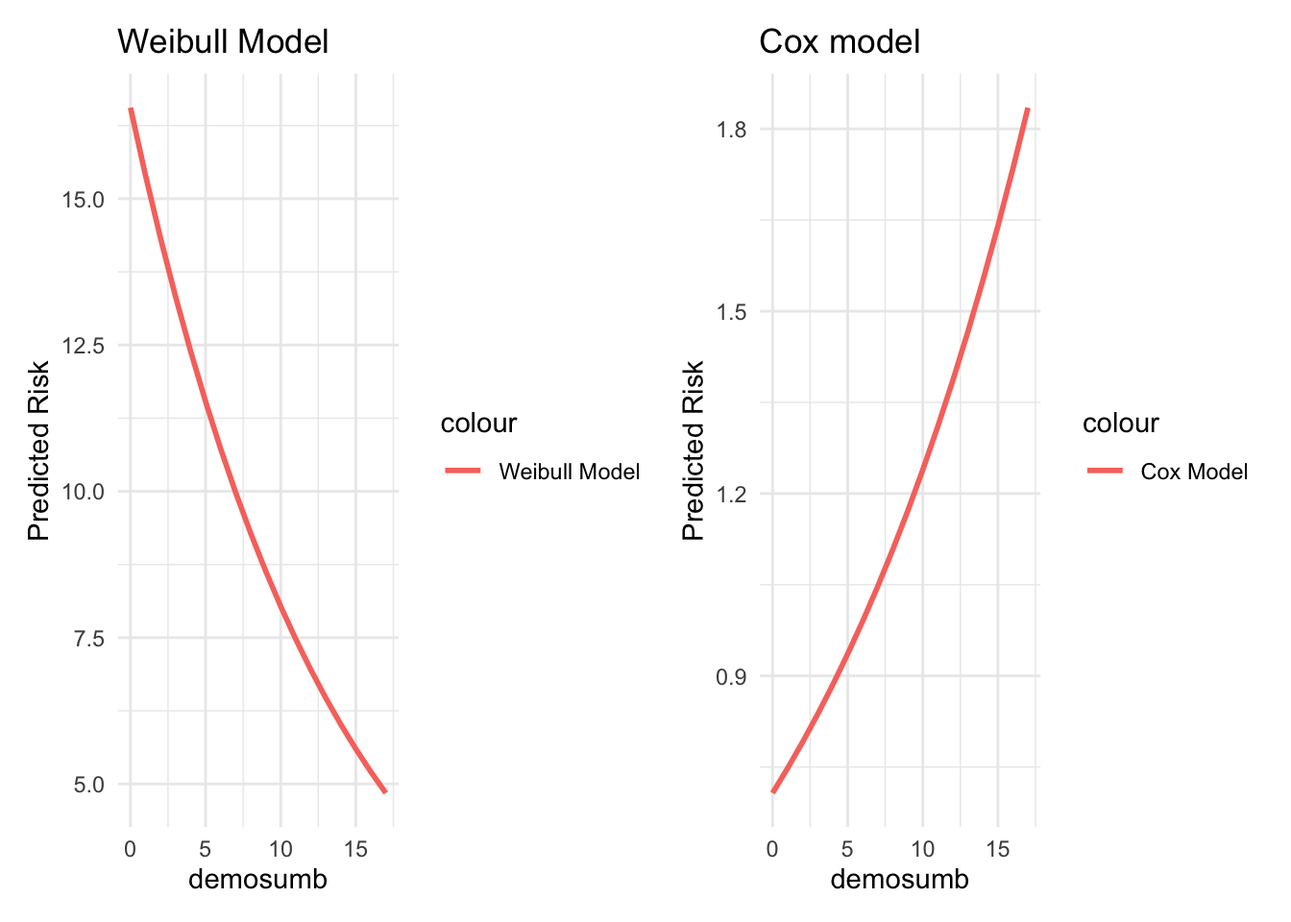
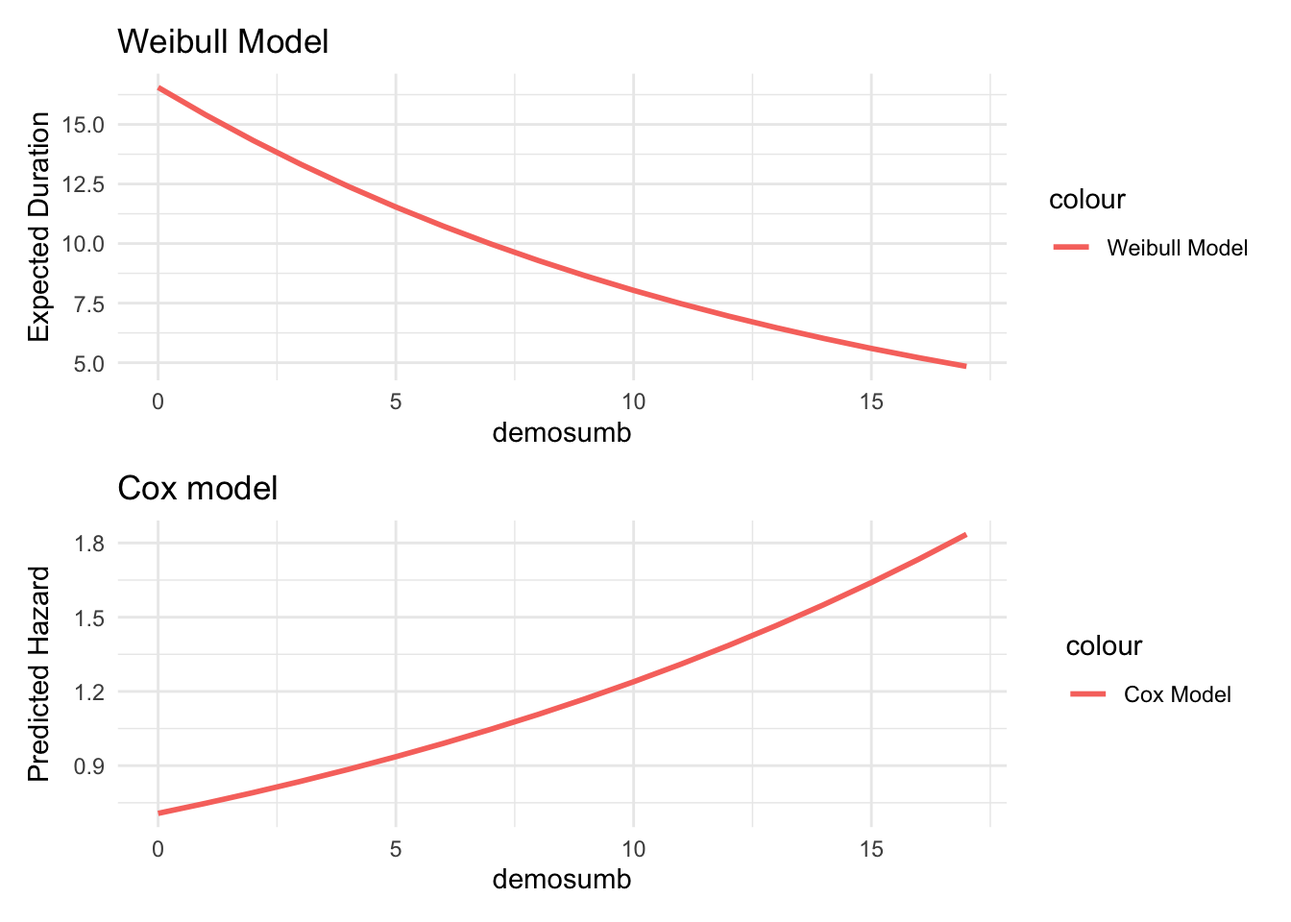
updates

diff --git a/docs/haz-cont24.html b/docs/haz-cont24.html
@@ -7,7 +7,7 @@
 <meta name="viewport" content="width=device-width, initial-scale=1.0, user-scalable=yes">
 
 <meta name="author" content="Dave Clark">
-<meta name="dcterms.date" content="2024-11-12">
+<meta name="dcterms.date" content="2024-11-21">
 
 <title>Continuous Time Hazards – MLE - Fall 2024</title>
 <style>
@@ -246,7 +246,7 @@ window.Quarto = {
       <div>
       <div class="quarto-title-meta-heading">Published</div>
       <div class="quarto-title-meta-contents">
-        <p class="date">November 12, 2024</p>
+        <p class="date">November 21, 2024</p>
       </div>
     </div>
     
@@ -826,28 +826,27 @@ h(t)=h_{0}(t) \nonumber
 <span id="cb1-2"><a href="#cb1-2" aria-hidden="true" tabindex="-1"></a></span>
 <span id="cb1-3"><a href="#cb1-3" aria-hidden="true" tabindex="-1"></a></span>
 <span id="cb1-4"><a href="#cb1-4" aria-hidden="true" tabindex="-1"></a></span>
-<span id="cb1-5"><a href="#cb1-5" aria-hidden="true" tabindex="-1"></a><span class="co"># First, create the Cox model</span></span>
-<span id="cb1-6"><a href="#cb1-6" aria-hidden="true" tabindex="-1"></a><span class="co"># Assuming your data is in a dataframe called 'df'</span></span>
-<span id="cb1-7"><a href="#cb1-7" aria-hidden="true" tabindex="-1"></a>cox_model <span class="ot">&lt;-</span> <span class="fu">coxph</span>(<span class="fu">Surv</span>(length, censor) <span class="sc">~</span> oadm <span class="sc">+</span> demosumb <span class="sc">+</span> sumpopbg <span class="sc">+</span> rterrain, </span>
-<span id="cb1-8"><a href="#cb1-8" aria-hidden="true" tabindex="-1"></a>                   <span class="at">data =</span> war)</span>
-<span id="cb1-9"><a href="#cb1-9" aria-hidden="true" tabindex="-1"></a></span>
-<span id="cb1-10"><a href="#cb1-10" aria-hidden="true" tabindex="-1"></a><span class="co"># Create Weibull model</span></span>
-<span id="cb1-11"><a href="#cb1-11" aria-hidden="true" tabindex="-1"></a>weib_model <span class="ot">&lt;-</span> <span class="fu">survreg</span>(<span class="fu">Surv</span>(length, censor) <span class="sc">~</span> oadm <span class="sc">+</span> demosumb <span class="sc">+</span> sumpopbg <span class="sc">+</span> rterrain, </span>
-<span id="cb1-12"><a href="#cb1-12" aria-hidden="true" tabindex="-1"></a>                      <span class="at">data =</span> war, </span>
-<span id="cb1-13"><a href="#cb1-13" aria-hidden="true" tabindex="-1"></a>                      <span class="at">dist =</span> <span class="st">"weibull"</span>)</span>
-<span id="cb1-14"><a href="#cb1-14" aria-hidden="true" tabindex="-1"></a></span>
-<span id="cb1-15"><a href="#cb1-15" aria-hidden="true" tabindex="-1"></a><span class="fu">modelsummary</span>(<span class="fu">list</span>(cox_model, weib_model))</span></code><button title="Copy to Clipboard" class="code-copy-button"><i class="bi"></i></button></pre></div>
+<span id="cb1-5"><a href="#cb1-5" aria-hidden="true" tabindex="-1"></a><span class="co"># cox</span></span>
+<span id="cb1-6"><a href="#cb1-6" aria-hidden="true" tabindex="-1"></a>cox_model <span class="ot">&lt;-</span> <span class="fu">coxph</span>(<span class="fu">Surv</span>(length, censor) <span class="sc">~</span> oadm <span class="sc">+</span> demosumb <span class="sc">+</span> sumpopbg <span class="sc">+</span> rterrain, </span>
+<span id="cb1-7"><a href="#cb1-7" aria-hidden="true" tabindex="-1"></a>                   <span class="at">data =</span> war)</span>
+<span id="cb1-8"><a href="#cb1-8" aria-hidden="true" tabindex="-1"></a></span>
+<span id="cb1-9"><a href="#cb1-9" aria-hidden="true" tabindex="-1"></a><span class="co"># Weibull </span></span>
+<span id="cb1-10"><a href="#cb1-10" aria-hidden="true" tabindex="-1"></a>weib_model <span class="ot">&lt;-</span> <span class="fu">survreg</span>(<span class="fu">Surv</span>(length, censor) <span class="sc">~</span> oadm <span class="sc">+</span> demosumb <span class="sc">+</span> sumpopbg <span class="sc">+</span> rterrain, </span>
+<span id="cb1-11"><a href="#cb1-11" aria-hidden="true" tabindex="-1"></a>                      <span class="at">data =</span> war, </span>
+<span id="cb1-12"><a href="#cb1-12" aria-hidden="true" tabindex="-1"></a>                      <span class="at">dist =</span> <span class="st">"weibull"</span>)</span>
+<span id="cb1-13"><a href="#cb1-13" aria-hidden="true" tabindex="-1"></a></span>
+<span id="cb1-14"><a href="#cb1-14" aria-hidden="true" tabindex="-1"></a><span class="fu">modelsummary</span>(<span class="fu">list</span>(cox_model, weib_model))</span></code><button title="Copy to Clipboard" class="code-copy-button"><i class="bi"></i></button></pre></div>
 </details>
 <div class="cell-output-display">
 <!-- preamble start -->
 
     <script>
-      function styleCell_ffp5aa9rg0ai8jou2afq(i, j, css_id) {
-        var table = document.getElementById("tinytable_ffp5aa9rg0ai8jou2afq");
+      function styleCell_z764csb5pozivnd9mynx(i, j, css_id) {
+        var table = document.getElementById("tinytable_z764csb5pozivnd9mynx");
         table.rows[i].cells[j].classList.add(css_id);
       }
       function insertSpanRow(i, colspan, content) {
-        var table = document.getElementById('tinytable_ffp5aa9rg0ai8jou2afq');
+        var table = document.getElementById('tinytable_z764csb5pozivnd9mynx');
         var newRow = table.insertRow(i);
         var newCell = newRow.insertCell(0);
         newCell.setAttribute("colspan", colspan);
@@ -855,8 +854,8 @@ h(t)=h_{0}(t) \nonumber
         // this may be unsafe, but innerText does not interpret <br>
         newCell.innerHTML = content;
       }
-      function spanCell_ffp5aa9rg0ai8jou2afq(i, j, rowspan, colspan) {
-        var table = document.getElementById("tinytable_ffp5aa9rg0ai8jou2afq");
+      function spanCell_z764csb5pozivnd9mynx(i, j, rowspan, colspan) {
+        var table = document.getElementById("tinytable_z764csb5pozivnd9mynx");
         const targetRow = table.rows[i];
         const targetCell = targetRow.cells[j];
         for (let r = 0; r < rowspan; r++) {
@@ -882,69 +881,69 @@ h(t)=h_{0}(t) \nonumber
         targetCell.rowSpan = rowspan;
         targetCell.colSpan = colspan;
       }
-window.addEventListener('load', function () { styleCell_ffp5aa9rg0ai8jou2afq(0, 0, 'tinytable_css_idbkoii8o6b7rclemcig05') })
-window.addEventListener('load', function () { styleCell_ffp5aa9rg0ai8jou2afq(0, 1, 'tinytable_css_idvfe26mc2kdos6bg1mmu6') })
-window.addEventListener('load', function () { styleCell_ffp5aa9rg0ai8jou2afq(0, 2, 'tinytable_css_idvfe26mc2kdos6bg1mmu6') })
-window.addEventListener('load', function () { styleCell_ffp5aa9rg0ai8jou2afq(1, 0, 'tinytable_css_id2r1zwlnc5sl7w2io69tx') })
-window.addEventListener('load', function () { styleCell_ffp5aa9rg0ai8jou2afq(1, 1, 'tinytable_css_idf1ot9fx3hx94yza4pws0') })
-window.addEventListener('load', function () { styleCell_ffp5aa9rg0ai8jou2afq(1, 2, 'tinytable_css_idf1ot9fx3hx94yza4pws0') })
-window.addEventListener('load', function () { styleCell_ffp5aa9rg0ai8jou2afq(2, 0, 'tinytable_css_id2r1zwlnc5sl7w2io69tx') })
-window.addEventListener('load', function () { styleCell_ffp5aa9rg0ai8jou2afq(2, 1, 'tinytable_css_idf1ot9fx3hx94yza4pws0') })
-window.addEventListener('load', function () { styleCell_ffp5aa9rg0ai8jou2afq(2, 2, 'tinytable_css_idf1ot9fx3hx94yza4pws0') })
-window.addEventListener('load', function () { styleCell_ffp5aa9rg0ai8jou2afq(3, 0, 'tinytable_css_id2r1zwlnc5sl7w2io69tx') })
-window.addEventListener('load', function () { styleCell_ffp5aa9rg0ai8jou2afq(3, 1, 'tinytable_css_idf1ot9fx3hx94yza4pws0') })
-window.addEventListener('load', function () { styleCell_ffp5aa9rg0ai8jou2afq(3, 2, 'tinytable_css_idf1ot9fx3hx94yza4pws0') })
-window.addEventListener('load', function () { styleCell_ffp5aa9rg0ai8jou2afq(4, 0, 'tinytable_css_id2r1zwlnc5sl7w2io69tx') })
-window.addEventListener('load', function () { styleCell_ffp5aa9rg0ai8jou2afq(4, 1, 'tinytable_css_idf1ot9fx3hx94yza4pws0') })
-window.addEventListener('load', function () { styleCell_ffp5aa9rg0ai8jou2afq(4, 2, 'tinytable_css_idf1ot9fx3hx94yza4pws0') })
-window.addEventListener('load', function () { styleCell_ffp5aa9rg0ai8jou2afq(5, 0, 'tinytable_css_id2r1zwlnc5sl7w2io69tx') })
-window.addEventListener('load', function () { styleCell_ffp5aa9rg0ai8jou2afq(5, 1, 'tinytable_css_idf1ot9fx3hx94yza4pws0') })
-window.addEventListener('load', function () { styleCell_ffp5aa9rg0ai8jou2afq(5, 2, 'tinytable_css_idf1ot9fx3hx94yza4pws0') })
-window.addEventListener('load', function () { styleCell_ffp5aa9rg0ai8jou2afq(6, 0, 'tinytable_css_id2r1zwlnc5sl7w2io69tx') })
-window.addEventListener('load', function () { styleCell_ffp5aa9rg0ai8jou2afq(6, 1, 'tinytable_css_idf1ot9fx3hx94yza4pws0') })
-window.addEventListener('load', function () { styleCell_ffp5aa9rg0ai8jou2afq(6, 2, 'tinytable_css_idf1ot9fx3hx94yza4pws0') })
-window.addEventListener('load', function () { styleCell_ffp5aa9rg0ai8jou2afq(7, 0, 'tinytable_css_id2r1zwlnc5sl7w2io69tx') })
-window.addEventListener('load', function () { styleCell_ffp5aa9rg0ai8jou2afq(7, 1, 'tinytable_css_idf1ot9fx3hx94yza4pws0') })
-window.addEventListener('load', function () { styleCell_ffp5aa9rg0ai8jou2afq(7, 2, 'tinytable_css_idf1ot9fx3hx94yza4pws0') })
-window.addEventListener('load', function () { styleCell_ffp5aa9rg0ai8jou2afq(8, 0, 'tinytable_css_id2r1zwlnc5sl7w2io69tx') })
-window.addEventListener('load', function () { styleCell_ffp5aa9rg0ai8jou2afq(8, 1, 'tinytable_css_idf1ot9fx3hx94yza4pws0') })
-window.addEventListener('load', function () { styleCell_ffp5aa9rg0ai8jou2afq(8, 2, 'tinytable_css_idf1ot9fx3hx94yza4pws0') })
-window.addEventListener('load', function () { styleCell_ffp5aa9rg0ai8jou2afq(9, 0, 'tinytable_css_id2r1zwlnc5sl7w2io69tx') })
-window.addEventListener('load', function () { styleCell_ffp5aa9rg0ai8jou2afq(9, 1, 'tinytable_css_idf1ot9fx3hx94yza4pws0') })
-window.addEventListener('load', function () { styleCell_ffp5aa9rg0ai8jou2afq(9, 2, 'tinytable_css_idf1ot9fx3hx94yza4pws0') })
-window.addEventListener('load', function () { styleCell_ffp5aa9rg0ai8jou2afq(10, 0, 'tinytable_css_id2r1zwlnc5sl7w2io69tx') })
-window.addEventListener('load', function () { styleCell_ffp5aa9rg0ai8jou2afq(10, 1, 'tinytable_css_idf1ot9fx3hx94yza4pws0') })
-window.addEventListener('load', function () { styleCell_ffp5aa9rg0ai8jou2afq(10, 2, 'tinytable_css_idf1ot9fx3hx94yza4pws0') })
-window.addEventListener('load', function () { styleCell_ffp5aa9rg0ai8jou2afq(11, 0, 'tinytable_css_id2r1zwlnc5sl7w2io69tx') })
-window.addEventListener('load', function () { styleCell_ffp5aa9rg0ai8jou2afq(11, 1, 'tinytable_css_idf1ot9fx3hx94yza4pws0') })
-window.addEventListener('load', function () { styleCell_ffp5aa9rg0ai8jou2afq(11, 2, 'tinytable_css_idf1ot9fx3hx94yza4pws0') })
-window.addEventListener('load', function () { styleCell_ffp5aa9rg0ai8jou2afq(12, 0, 'tinytable_css_idxx6r2bdz0bua85ofal3h') })
-window.addEventListener('load', function () { styleCell_ffp5aa9rg0ai8jou2afq(12, 1, 'tinytable_css_idm07dizpbyk26yzme0pl7') })
-window.addEventListener('load', function () { styleCell_ffp5aa9rg0ai8jou2afq(12, 2, 'tinytable_css_idm07dizpbyk26yzme0pl7') })
-window.addEventListener('load', function () { styleCell_ffp5aa9rg0ai8jou2afq(13, 0, 'tinytable_css_id2r1zwlnc5sl7w2io69tx') })
-window.addEventListener('load', function () { styleCell_ffp5aa9rg0ai8jou2afq(13, 1, 'tinytable_css_idf1ot9fx3hx94yza4pws0') })
-window.addEventListener('load', function () { styleCell_ffp5aa9rg0ai8jou2afq(13, 2, 'tinytable_css_idf1ot9fx3hx94yza4pws0') })
-window.addEventListener('load', function () { styleCell_ffp5aa9rg0ai8jou2afq(14, 0, 'tinytable_css_id2r1zwlnc5sl7w2io69tx') })
-window.addEventListener('load', function () { styleCell_ffp5aa9rg0ai8jou2afq(14, 1, 'tinytable_css_idf1ot9fx3hx94yza4pws0') })
-window.addEventListener('load', function () { styleCell_ffp5aa9rg0ai8jou2afq(14, 2, 'tinytable_css_idf1ot9fx3hx94yza4pws0') })
-window.addEventListener('load', function () { styleCell_ffp5aa9rg0ai8jou2afq(15, 0, 'tinytable_css_id2r1zwlnc5sl7w2io69tx') })
-window.addEventListener('load', function () { styleCell_ffp5aa9rg0ai8jou2afq(15, 1, 'tinytable_css_idf1ot9fx3hx94yza4pws0') })
-window.addEventListener('load', function () { styleCell_ffp5aa9rg0ai8jou2afq(15, 2, 'tinytable_css_idf1ot9fx3hx94yza4pws0') })
-window.addEventListener('load', function () { styleCell_ffp5aa9rg0ai8jou2afq(16, 0, 'tinytable_css_id2r1zwlnc5sl7w2io69tx') })
-window.addEventListener('load', function () { styleCell_ffp5aa9rg0ai8jou2afq(16, 1, 'tinytable_css_idf1ot9fx3hx94yza4pws0') })
-window.addEventListener('load', function () { styleCell_ffp5aa9rg0ai8jou2afq(16, 2, 'tinytable_css_idf1ot9fx3hx94yza4pws0') })
+window.addEventListener('load', function () { styleCell_z764csb5pozivnd9mynx(0, 0, 'tinytable_css_id51tg0sxumawk9lolqlzc') })
+window.addEventListener('load', function () { styleCell_z764csb5pozivnd9mynx(0, 1, 'tinytable_css_idcts26uhzay2jgr93zhs7') })
+window.addEventListener('load', function () { styleCell_z764csb5pozivnd9mynx(0, 2, 'tinytable_css_idcts26uhzay2jgr93zhs7') })
+window.addEventListener('load', function () { styleCell_z764csb5pozivnd9mynx(1, 0, 'tinytable_css_idkadm98s2gg20s86sot1x') })
+window.addEventListener('load', function () { styleCell_z764csb5pozivnd9mynx(1, 1, 'tinytable_css_idqt3kge56iaxgj0cjthud') })
+window.addEventListener('load', function () { styleCell_z764csb5pozivnd9mynx(1, 2, 'tinytable_css_idqt3kge56iaxgj0cjthud') })
+window.addEventListener('load', function () { styleCell_z764csb5pozivnd9mynx(2, 0, 'tinytable_css_idkadm98s2gg20s86sot1x') })
+window.addEventListener('load', function () { styleCell_z764csb5pozivnd9mynx(2, 1, 'tinytable_css_idqt3kge56iaxgj0cjthud') })
+window.addEventListener('load', function () { styleCell_z764csb5pozivnd9mynx(2, 2, 'tinytable_css_idqt3kge56iaxgj0cjthud') })
+window.addEventListener('load', function () { styleCell_z764csb5pozivnd9mynx(3, 0, 'tinytable_css_idkadm98s2gg20s86sot1x') })
+window.addEventListener('load', function () { styleCell_z764csb5pozivnd9mynx(3, 1, 'tinytable_css_idqt3kge56iaxgj0cjthud') })
+window.addEventListener('load', function () { styleCell_z764csb5pozivnd9mynx(3, 2, 'tinytable_css_idqt3kge56iaxgj0cjthud') })
+window.addEventListener('load', function () { styleCell_z764csb5pozivnd9mynx(4, 0, 'tinytable_css_idkadm98s2gg20s86sot1x') })
+window.addEventListener('load', function () { styleCell_z764csb5pozivnd9mynx(4, 1, 'tinytable_css_idqt3kge56iaxgj0cjthud') })
+window.addEventListener('load', function () { styleCell_z764csb5pozivnd9mynx(4, 2, 'tinytable_css_idqt3kge56iaxgj0cjthud') })
+window.addEventListener('load', function () { styleCell_z764csb5pozivnd9mynx(5, 0, 'tinytable_css_idkadm98s2gg20s86sot1x') })
+window.addEventListener('load', function () { styleCell_z764csb5pozivnd9mynx(5, 1, 'tinytable_css_idqt3kge56iaxgj0cjthud') })
+window.addEventListener('load', function () { styleCell_z764csb5pozivnd9mynx(5, 2, 'tinytable_css_idqt3kge56iaxgj0cjthud') })
+window.addEventListener('load', function () { styleCell_z764csb5pozivnd9mynx(6, 0, 'tinytable_css_idkadm98s2gg20s86sot1x') })
+window.addEventListener('load', function () { styleCell_z764csb5pozivnd9mynx(6, 1, 'tinytable_css_idqt3kge56iaxgj0cjthud') })
+window.addEventListener('load', function () { styleCell_z764csb5pozivnd9mynx(6, 2, 'tinytable_css_idqt3kge56iaxgj0cjthud') })
+window.addEventListener('load', function () { styleCell_z764csb5pozivnd9mynx(7, 0, 'tinytable_css_idkadm98s2gg20s86sot1x') })
+window.addEventListener('load', function () { styleCell_z764csb5pozivnd9mynx(7, 1, 'tinytable_css_idqt3kge56iaxgj0cjthud') })
+window.addEventListener('load', function () { styleCell_z764csb5pozivnd9mynx(7, 2, 'tinytable_css_idqt3kge56iaxgj0cjthud') })
+window.addEventListener('load', function () { styleCell_z764csb5pozivnd9mynx(8, 0, 'tinytable_css_idkadm98s2gg20s86sot1x') })
+window.addEventListener('load', function () { styleCell_z764csb5pozivnd9mynx(8, 1, 'tinytable_css_idqt3kge56iaxgj0cjthud') })
+window.addEventListener('load', function () { styleCell_z764csb5pozivnd9mynx(8, 2, 'tinytable_css_idqt3kge56iaxgj0cjthud') })
+window.addEventListener('load', function () { styleCell_z764csb5pozivnd9mynx(9, 0, 'tinytable_css_idkadm98s2gg20s86sot1x') })
+window.addEventListener('load', function () { styleCell_z764csb5pozivnd9mynx(9, 1, 'tinytable_css_idqt3kge56iaxgj0cjthud') })
+window.addEventListener('load', function () { styleCell_z764csb5pozivnd9mynx(9, 2, 'tinytable_css_idqt3kge56iaxgj0cjthud') })
+window.addEventListener('load', function () { styleCell_z764csb5pozivnd9mynx(10, 0, 'tinytable_css_idkadm98s2gg20s86sot1x') })
+window.addEventListener('load', function () { styleCell_z764csb5pozivnd9mynx(10, 1, 'tinytable_css_idqt3kge56iaxgj0cjthud') })
+window.addEventListener('load', function () { styleCell_z764csb5pozivnd9mynx(10, 2, 'tinytable_css_idqt3kge56iaxgj0cjthud') })
+window.addEventListener('load', function () { styleCell_z764csb5pozivnd9mynx(11, 0, 'tinytable_css_idkadm98s2gg20s86sot1x') })
+window.addEventListener('load', function () { styleCell_z764csb5pozivnd9mynx(11, 1, 'tinytable_css_idqt3kge56iaxgj0cjthud') })
+window.addEventListener('load', function () { styleCell_z764csb5pozivnd9mynx(11, 2, 'tinytable_css_idqt3kge56iaxgj0cjthud') })
+window.addEventListener('load', function () { styleCell_z764csb5pozivnd9mynx(12, 0, 'tinytable_css_idejt1pxhqf5vyah376hfh') })
+window.addEventListener('load', function () { styleCell_z764csb5pozivnd9mynx(12, 1, 'tinytable_css_idc49hiqgbw1byzx00ikyu') })
+window.addEventListener('load', function () { styleCell_z764csb5pozivnd9mynx(12, 2, 'tinytable_css_idc49hiqgbw1byzx00ikyu') })
+window.addEventListener('load', function () { styleCell_z764csb5pozivnd9mynx(13, 0, 'tinytable_css_idkadm98s2gg20s86sot1x') })
+window.addEventListener('load', function () { styleCell_z764csb5pozivnd9mynx(13, 1, 'tinytable_css_idqt3kge56iaxgj0cjthud') })
+window.addEventListener('load', function () { styleCell_z764csb5pozivnd9mynx(13, 2, 'tinytable_css_idqt3kge56iaxgj0cjthud') })
+window.addEventListener('load', function () { styleCell_z764csb5pozivnd9mynx(14, 0, 'tinytable_css_idkadm98s2gg20s86sot1x') })
+window.addEventListener('load', function () { styleCell_z764csb5pozivnd9mynx(14, 1, 'tinytable_css_idqt3kge56iaxgj0cjthud') })
+window.addEventListener('load', function () { styleCell_z764csb5pozivnd9mynx(14, 2, 'tinytable_css_idqt3kge56iaxgj0cjthud') })
+window.addEventListener('load', function () { styleCell_z764csb5pozivnd9mynx(15, 0, 'tinytable_css_idkadm98s2gg20s86sot1x') })
+window.addEventListener('load', function () { styleCell_z764csb5pozivnd9mynx(15, 1, 'tinytable_css_idqt3kge56iaxgj0cjthud') })
+window.addEventListener('load', function () { styleCell_z764csb5pozivnd9mynx(15, 2, 'tinytable_css_idqt3kge56iaxgj0cjthud') })
+window.addEventListener('load', function () { styleCell_z764csb5pozivnd9mynx(16, 0, 'tinytable_css_idkadm98s2gg20s86sot1x') })
+window.addEventListener('load', function () { styleCell_z764csb5pozivnd9mynx(16, 1, 'tinytable_css_idqt3kge56iaxgj0cjthud') })
+window.addEventListener('load', function () { styleCell_z764csb5pozivnd9mynx(16, 2, 'tinytable_css_idqt3kge56iaxgj0cjthud') })
     </script>
 
     <style>
-    .table td.tinytable_css_idbkoii8o6b7rclemcig05, .table th.tinytable_css_idbkoii8o6b7rclemcig05 {  text-align: left;  border-bottom: solid 0.1em #d3d8dc; }
-    .table td.tinytable_css_idvfe26mc2kdos6bg1mmu6, .table th.tinytable_css_idvfe26mc2kdos6bg1mmu6 {  text-align: center;  border-bottom: solid 0.1em #d3d8dc; }
-    .table td.tinytable_css_id2r1zwlnc5sl7w2io69tx, .table th.tinytable_css_id2r1zwlnc5sl7w2io69tx {  text-align: left; }
-    .table td.tinytable_css_idf1ot9fx3hx94yza4pws0, .table th.tinytable_css_idf1ot9fx3hx94yza4pws0 {  text-align: center; }
-    .table td.tinytable_css_idxx6r2bdz0bua85ofal3h, .table th.tinytable_css_idxx6r2bdz0bua85ofal3h {  border-bottom: solid 0.05em black;  text-align: left; }
-    .table td.tinytable_css_idm07dizpbyk26yzme0pl7, .table th.tinytable_css_idm07dizpbyk26yzme0pl7 {  border-bottom: solid 0.05em black;  text-align: center; }
+    .table td.tinytable_css_id51tg0sxumawk9lolqlzc, .table th.tinytable_css_id51tg0sxumawk9lolqlzc {  text-align: left;  border-bottom: solid 0.1em #d3d8dc; }
+    .table td.tinytable_css_idcts26uhzay2jgr93zhs7, .table th.tinytable_css_idcts26uhzay2jgr93zhs7 {  text-align: center;  border-bottom: solid 0.1em #d3d8dc; }
+    .table td.tinytable_css_idkadm98s2gg20s86sot1x, .table th.tinytable_css_idkadm98s2gg20s86sot1x {  text-align: left; }
+    .table td.tinytable_css_idqt3kge56iaxgj0cjthud, .table th.tinytable_css_idqt3kge56iaxgj0cjthud {  text-align: center; }
+    .table td.tinytable_css_idejt1pxhqf5vyah376hfh, .table th.tinytable_css_idejt1pxhqf5vyah376hfh {  border-bottom: solid 0.05em black;  text-align: left; }
+    .table td.tinytable_css_idc49hiqgbw1byzx00ikyu, .table th.tinytable_css_idc49hiqgbw1byzx00ikyu {  border-bottom: solid 0.05em black;  text-align: center; }
     </style>
     <div class="container">
-      <table class="table table-borderless" id="tinytable_ffp5aa9rg0ai8jou2afq" style="width: auto; margin-left: auto; margin-right: auto;" data-quarto-disable-processing="true">
+      <table class="table table-borderless" id="tinytable_z764csb5pozivnd9mynx" style="width: auto; margin-left: auto; margin-right: auto;" data-quarto-disable-processing="true">
         <thead>
         
               <tr>
@@ -1076,17 +1075,17 @@ window.addEventListener('load', function () { styleCell_ffp5aa9rg0ai8jou2afq(16,
 <span id="cb2-29"><a href="#cb2-29" aria-hidden="true" tabindex="-1"></a>  <span class="fu">geom_line</span>(<span class="fu">aes</span>(<span class="at">y =</span> weibull, <span class="at">color =</span> <span class="st">"Weibull Model"</span>), <span class="at">size =</span> <span class="dv">1</span>) <span class="sc">+</span></span>
 <span id="cb2-30"><a href="#cb2-30" aria-hidden="true" tabindex="-1"></a>  <span class="fu">labs</span>(<span class="at">title =</span> <span class="st">"Weibull Model"</span>,</span>
 <span id="cb2-31"><a href="#cb2-31" aria-hidden="true" tabindex="-1"></a>       <span class="at">x =</span> <span class="st">"demosumb"</span>,</span>
-<span id="cb2-32"><a href="#cb2-32" aria-hidden="true" tabindex="-1"></a>       <span class="at">y =</span> <span class="st">"Predicted Risk"</span>) <span class="sc">+</span></span>
+<span id="cb2-32"><a href="#cb2-32" aria-hidden="true" tabindex="-1"></a>       <span class="at">y =</span> <span class="st">"Expected Duration"</span>) <span class="sc">+</span></span>
 <span id="cb2-33"><a href="#cb2-33" aria-hidden="true" tabindex="-1"></a>  <span class="fu">theme_minimal</span>()</span>
 <span id="cb2-34"><a href="#cb2-34" aria-hidden="true" tabindex="-1"></a></span>
 <span id="cb2-35"><a href="#cb2-35" aria-hidden="true" tabindex="-1"></a>c <span class="ot">&lt;-</span> <span class="fu">ggplot</span>(plot_data, <span class="fu">aes</span>(<span class="at">x =</span> demosumb)) <span class="sc">+</span></span>
 <span id="cb2-36"><a href="#cb2-36" aria-hidden="true" tabindex="-1"></a>  <span class="fu">geom_line</span>(<span class="fu">aes</span>(<span class="at">y =</span> cox, <span class="at">color =</span> <span class="st">"Cox Model"</span>), <span class="at">size =</span> <span class="dv">1</span>) <span class="sc">+</span></span>
 <span id="cb2-37"><a href="#cb2-37" aria-hidden="true" tabindex="-1"></a>  <span class="fu">labs</span>(<span class="at">title =</span> <span class="st">"Cox model"</span>,</span>
 <span id="cb2-38"><a href="#cb2-38" aria-hidden="true" tabindex="-1"></a>       <span class="at">x =</span> <span class="st">"demosumb"</span>,</span>
-<span id="cb2-39"><a href="#cb2-39" aria-hidden="true" tabindex="-1"></a>       <span class="at">y =</span> <span class="st">"Predicted Risk"</span>) <span class="sc">+</span></span>
+<span id="cb2-39"><a href="#cb2-39" aria-hidden="true" tabindex="-1"></a>       <span class="at">y =</span> <span class="st">"Predicted Hazard"</span>) <span class="sc">+</span></span>
 <span id="cb2-40"><a href="#cb2-40" aria-hidden="true" tabindex="-1"></a>  <span class="fu">theme_minimal</span>()</span>
 <span id="cb2-41"><a href="#cb2-41" aria-hidden="true" tabindex="-1"></a></span>
-<span id="cb2-42"><a href="#cb2-42" aria-hidden="true" tabindex="-1"></a>patchwork<span class="sc">::</span><span class="fu">wrap_plots</span>(w, c)</span></code><button title="Copy to Clipboard" class="code-copy-button"><i class="bi"></i></button></pre></div>
+<span id="cb2-42"><a href="#cb2-42" aria-hidden="true" tabindex="-1"></a>w<span class="sc">/</span>c</span></code><button title="Copy to Clipboard" class="code-copy-button"><i class="bi"></i></button></pre></div>
 </details>
 <div class="cell-output-display">
 <div class="quarto-figure quarto-figure-center">
@@ -1130,7 +1129,7 @@ window.addEventListener('load', function () { styleCell_ffp5aa9rg0ai8jou2afq(16,
 <ul>
 <li>a covariate has a diminishing or threshold effect on survival - perhaps <span class="math inline">\(x\)</span> increases survival, but only up to some point after which it has no effect - e.g.&nbsp;drug resistance. Hazards for two individuals, one treatment, one control, will converge at some point as the treatment individual gets smaller and smaller effect from the drug, relative to the control individual.</li>
 <li>a covariate measures learning such that it decreases the difference between an individual learning something and an individual who already learned.</li>
-<li>a covariate increases the disparity in survival between individuals over time, so their hazards diverge. -hazards for individuals converge and then cross; a common example is the survival effects of surgery versus radiation or drug treatment for cancer patients. The hazard for surgery patients is high at first, but declines; for radiation/drug patients, the hazards are low at first, but increase with time. In the long run, surgery patients’ hazards usually crosses beneath that of radiation patients.</li>
+<li>a covariate increases the disparity in survival between individuals over time, so their hazards diverge. -hazards for individuals converge and then cross; a common example is the survival effects of surgery versus radiation or drug treatment for cancer patients. The hazard for surgery patients is high at first, but declines; for radiation/drug patients, the hazards are low at first, but increase with time. In the long run, surgery patients’ hazard usually crosses beneath that of radiation patients.</li>
 </ul>
 <p>In all these cases, the hazards for individuals change over time <em>at different rates or in different directions</em>. This means the ratio of their hazards is not constant over time. So variation over time is the common factor here and implies tests for non proportionality and solutions to it.</p>
 <p>In what follows, I’m focusing only on the Cox model.</p>
@@ -1163,12 +1162,12 @@ window.addEventListener('load', function () { styleCell_ffp5aa9rg0ai8jou2afq(16,
 <!-- preamble start -->
 
     <script>
-      function styleCell_pvg0coxgn1ssjcxyqwce(i, j, css_id) {
-        var table = document.getElementById("tinytable_pvg0coxgn1ssjcxyqwce");
+      function styleCell_7u4pl26ayz7alozxhzjt(i, j, css_id) {
+        var table = document.getElementById("tinytable_7u4pl26ayz7alozxhzjt");
         table.rows[i].cells[j].classList.add(css_id);
       }
       function insertSpanRow(i, colspan, content) {
-        var table = document.getElementById('tinytable_pvg0coxgn1ssjcxyqwce');
+        var table = document.getElementById('tinytable_7u4pl26ayz7alozxhzjt');
         var newRow = table.insertRow(i);
         var newCell = newRow.insertCell(0);
         newCell.setAttribute("colspan", colspan);
@@ -1176,8 +1175,8 @@ window.addEventListener('load', function () { styleCell_ffp5aa9rg0ai8jou2afq(16,
         // this may be unsafe, but innerText does not interpret <br>
         newCell.innerHTML = content;
       }
-      function spanCell_pvg0coxgn1ssjcxyqwce(i, j, rowspan, colspan) {
-        var table = document.getElementById("tinytable_pvg0coxgn1ssjcxyqwce");
+      function spanCell_7u4pl26ayz7alozxhzjt(i, j, rowspan, colspan) {
+        var table = document.getElementById("tinytable_7u4pl26ayz7alozxhzjt");
         const targetRow = table.rows[i];
         const targetCell = targetRow.cells[j];
         for (let r = 0; r < rowspan; r++) {
@@ -1203,46 +1202,46 @@ window.addEventListener('load', function () { styleCell_ffp5aa9rg0ai8jou2afq(16,
         targetCell.rowSpan = rowspan;
         targetCell.colSpan = colspan;
       }
-window.addEventListener('load', function () { styleCell_pvg0coxgn1ssjcxyqwce(0, 0, 'tinytable_css_idkhg1c67rmced16964l2o') })
-window.addEventListener('load', function () { styleCell_pvg0coxgn1ssjcxyqwce(0, 1, 'tinytable_css_id7yvs7r4wljvuasf4puv8') })
-window.addEventListener('load', function () { styleCell_pvg0coxgn1ssjcxyqwce(1, 0, 'tinytable_css_iddhrz4q0pzpbq0s4a84hj') })
-window.addEventListener('load', function () { styleCell_pvg0coxgn1ssjcxyqwce(1, 1, 'tinytable_css_id3hoi0vsk6r05ah2stytd') })
-window.addEventListener('load', function () { styleCell_pvg0coxgn1ssjcxyqwce(2, 0, 'tinytable_css_iddhrz4q0pzpbq0s4a84hj') })
-window.addEventListener('load', function () { styleCell_pvg0coxgn1ssjcxyqwce(2, 1, 'tinytable_css_id3hoi0vsk6r05ah2stytd') })
-window.addEventListener('load', function () { styleCell_pvg0coxgn1ssjcxyqwce(3, 0, 'tinytable_css_iddhrz4q0pzpbq0s4a84hj') })
-window.addEventListener('load', function () { styleCell_pvg0coxgn1ssjcxyqwce(3, 1, 'tinytable_css_id3hoi0vsk6r05ah2stytd') })
-window.addEventListener('load', function () { styleCell_pvg0coxgn1ssjcxyqwce(4, 0, 'tinytable_css_iddhrz4q0pzpbq0s4a84hj') })
-window.addEventListener('load', function () { styleCell_pvg0coxgn1ssjcxyqwce(4, 1, 'tinytable_css_id3hoi0vsk6r05ah2stytd') })
-window.addEventListener('load', function () { styleCell_pvg0coxgn1ssjcxyqwce(5, 0, 'tinytable_css_iddhrz4q0pzpbq0s4a84hj') })
-window.addEventListener('load', function () { styleCell_pvg0coxgn1ssjcxyqwce(5, 1, 'tinytable_css_id3hoi0vsk6r05ah2stytd') })
-window.addEventListener('load', function () { styleCell_pvg0coxgn1ssjcxyqwce(6, 0, 'tinytable_css_iddhrz4q0pzpbq0s4a84hj') })
-window.addEventListener('load', function () { styleCell_pvg0coxgn1ssjcxyqwce(6, 1, 'tinytable_css_id3hoi0vsk6r05ah2stytd') })
-window.addEventListener('load', function () { styleCell_pvg0coxgn1ssjcxyqwce(7, 0, 'tinytable_css_iddhrz4q0pzpbq0s4a84hj') })
-window.addEventListener('load', function () { styleCell_pvg0coxgn1ssjcxyqwce(7, 1, 'tinytable_css_id3hoi0vsk6r05ah2stytd') })
-window.addEventListener('load', function () { styleCell_pvg0coxgn1ssjcxyqwce(8, 0, 'tinytable_css_ido8r0i26f03l0xjee11ha') })
-window.addEventListener('load', function () { styleCell_pvg0coxgn1ssjcxyqwce(8, 1, 'tinytable_css_id3denjafdaxuh536br60w') })
-window.addEventListener('load', function () { styleCell_pvg0coxgn1ssjcxyqwce(9, 0, 'tinytable_css_iddhrz4q0pzpbq0s4a84hj') })
-window.addEventListener('load', function () { styleCell_pvg0coxgn1ssjcxyqwce(9, 1, 'tinytable_css_id3hoi0vsk6r05ah2stytd') })
-window.addEventListener('load', function () { styleCell_pvg0coxgn1ssjcxyqwce(10, 0, 'tinytable_css_iddhrz4q0pzpbq0s4a84hj') })
-window.addEventListener('load', function () { styleCell_pvg0coxgn1ssjcxyqwce(10, 1, 'tinytable_css_id3hoi0vsk6r05ah2stytd') })
-window.addEventListener('load', function () { styleCell_pvg0coxgn1ssjcxyqwce(11, 0, 'tinytable_css_iddhrz4q0pzpbq0s4a84hj') })
-window.addEventListener('load', function () { styleCell_pvg0coxgn1ssjcxyqwce(11, 1, 'tinytable_css_id3hoi0vsk6r05ah2stytd') })
-window.addEventListener('load', function () { styleCell_pvg0coxgn1ssjcxyqwce(12, 0, 'tinytable_css_iddhrz4q0pzpbq0s4a84hj') })
-window.addEventListener('load', function () { styleCell_pvg0coxgn1ssjcxyqwce(12, 1, 'tinytable_css_id3hoi0vsk6r05ah2stytd') })
-window.addEventListener('load', function () { styleCell_pvg0coxgn1ssjcxyqwce(13, 0, 'tinytable_css_iddhrz4q0pzpbq0s4a84hj') })
-window.addEventListener('load', function () { styleCell_pvg0coxgn1ssjcxyqwce(13, 1, 'tinytable_css_iddhrz4q0pzpbq0s4a84hj') })
+window.addEventListener('load', function () { styleCell_7u4pl26ayz7alozxhzjt(0, 0, 'tinytable_css_iduoboyd86rt1gqes6z2c4') })
+window.addEventListener('load', function () { styleCell_7u4pl26ayz7alozxhzjt(0, 1, 'tinytable_css_idgzrolp2r76qg24cebur5') })
+window.addEventListener('load', function () { styleCell_7u4pl26ayz7alozxhzjt(1, 0, 'tinytable_css_iduxk3pz0szdhg87gvm367') })
+window.addEventListener('load', function () { styleCell_7u4pl26ayz7alozxhzjt(1, 1, 'tinytable_css_id359qhksziyrbumzuenvg') })
+window.addEventListener('load', function () { styleCell_7u4pl26ayz7alozxhzjt(2, 0, 'tinytable_css_iduxk3pz0szdhg87gvm367') })
+window.addEventListener('load', function () { styleCell_7u4pl26ayz7alozxhzjt(2, 1, 'tinytable_css_id359qhksziyrbumzuenvg') })
+window.addEventListener('load', function () { styleCell_7u4pl26ayz7alozxhzjt(3, 0, 'tinytable_css_iduxk3pz0szdhg87gvm367') })
+window.addEventListener('load', function () { styleCell_7u4pl26ayz7alozxhzjt(3, 1, 'tinytable_css_id359qhksziyrbumzuenvg') })
+window.addEventListener('load', function () { styleCell_7u4pl26ayz7alozxhzjt(4, 0, 'tinytable_css_iduxk3pz0szdhg87gvm367') })
+window.addEventListener('load', function () { styleCell_7u4pl26ayz7alozxhzjt(4, 1, 'tinytable_css_id359qhksziyrbumzuenvg') })
+window.addEventListener('load', function () { styleCell_7u4pl26ayz7alozxhzjt(5, 0, 'tinytable_css_iduxk3pz0szdhg87gvm367') })
+window.addEventListener('load', function () { styleCell_7u4pl26ayz7alozxhzjt(5, 1, 'tinytable_css_id359qhksziyrbumzuenvg') })
+window.addEventListener('load', function () { styleCell_7u4pl26ayz7alozxhzjt(6, 0, 'tinytable_css_iduxk3pz0szdhg87gvm367') })
+window.addEventListener('load', function () { styleCell_7u4pl26ayz7alozxhzjt(6, 1, 'tinytable_css_id359qhksziyrbumzuenvg') })
+window.addEventListener('load', function () { styleCell_7u4pl26ayz7alozxhzjt(7, 0, 'tinytable_css_iduxk3pz0szdhg87gvm367') })
+window.addEventListener('load', function () { styleCell_7u4pl26ayz7alozxhzjt(7, 1, 'tinytable_css_id359qhksziyrbumzuenvg') })
+window.addEventListener('load', function () { styleCell_7u4pl26ayz7alozxhzjt(8, 0, 'tinytable_css_ids7hk2wx02al13oee7yb3') })
+window.addEventListener('load', function () { styleCell_7u4pl26ayz7alozxhzjt(8, 1, 'tinytable_css_idmj1h4jrluqs1v6txvfkd') })
+window.addEventListener('load', function () { styleCell_7u4pl26ayz7alozxhzjt(9, 0, 'tinytable_css_iduxk3pz0szdhg87gvm367') })
+window.addEventListener('load', function () { styleCell_7u4pl26ayz7alozxhzjt(9, 1, 'tinytable_css_id359qhksziyrbumzuenvg') })
+window.addEventListener('load', function () { styleCell_7u4pl26ayz7alozxhzjt(10, 0, 'tinytable_css_iduxk3pz0szdhg87gvm367') })
+window.addEventListener('load', function () { styleCell_7u4pl26ayz7alozxhzjt(10, 1, 'tinytable_css_id359qhksziyrbumzuenvg') })
+window.addEventListener('load', function () { styleCell_7u4pl26ayz7alozxhzjt(11, 0, 'tinytable_css_iduxk3pz0szdhg87gvm367') })
+window.addEventListener('load', function () { styleCell_7u4pl26ayz7alozxhzjt(11, 1, 'tinytable_css_id359qhksziyrbumzuenvg') })
+window.addEventListener('load', function () { styleCell_7u4pl26ayz7alozxhzjt(12, 0, 'tinytable_css_iduxk3pz0szdhg87gvm367') })
+window.addEventListener('load', function () { styleCell_7u4pl26ayz7alozxhzjt(12, 1, 'tinytable_css_id359qhksziyrbumzuenvg') })
+window.addEventListener('load', function () { styleCell_7u4pl26ayz7alozxhzjt(13, 0, 'tinytable_css_iduxk3pz0szdhg87gvm367') })
+window.addEventListener('load', function () { styleCell_7u4pl26ayz7alozxhzjt(13, 1, 'tinytable_css_iduxk3pz0szdhg87gvm367') })
     </script>
 
     <style>
-    .table td.tinytable_css_idkhg1c67rmced16964l2o, .table th.tinytable_css_idkhg1c67rmced16964l2o {  text-align: left;  border-bottom: solid 0.1em #d3d8dc; }
-    .table td.tinytable_css_id7yvs7r4wljvuasf4puv8, .table th.tinytable_css_id7yvs7r4wljvuasf4puv8 {  text-align: center;  border-bottom: solid 0.1em #d3d8dc; }
-    .table td.tinytable_css_iddhrz4q0pzpbq0s4a84hj, .table th.tinytable_css_iddhrz4q0pzpbq0s4a84hj {  text-align: left; }
-    .table td.tinytable_css_id3hoi0vsk6r05ah2stytd, .table th.tinytable_css_id3hoi0vsk6r05ah2stytd {  text-align: center; }
-    .table td.tinytable_css_ido8r0i26f03l0xjee11ha, .table th.tinytable_css_ido8r0i26f03l0xjee11ha {  border-bottom: solid 0.05em black;  text-align: left; }
-    .table td.tinytable_css_id3denjafdaxuh536br60w, .table th.tinytable_css_id3denjafdaxuh536br60w {  border-bottom: solid 0.05em black;  text-align: center; }
+    .table td.tinytable_css_iduoboyd86rt1gqes6z2c4, .table th.tinytable_css_iduoboyd86rt1gqes6z2c4 {  text-align: left;  border-bottom: solid 0.1em #d3d8dc; }
+    .table td.tinytable_css_idgzrolp2r76qg24cebur5, .table th.tinytable_css_idgzrolp2r76qg24cebur5 {  text-align: center;  border-bottom: solid 0.1em #d3d8dc; }
+    .table td.tinytable_css_iduxk3pz0szdhg87gvm367, .table th.tinytable_css_iduxk3pz0szdhg87gvm367 {  text-align: left; }
+    .table td.tinytable_css_id359qhksziyrbumzuenvg, .table th.tinytable_css_id359qhksziyrbumzuenvg {  text-align: center; }
+    .table td.tinytable_css_ids7hk2wx02al13oee7yb3, .table th.tinytable_css_ids7hk2wx02al13oee7yb3 {  border-bottom: solid 0.05em black;  text-align: left; }
+    .table td.tinytable_css_idmj1h4jrluqs1v6txvfkd, .table th.tinytable_css_idmj1h4jrluqs1v6txvfkd {  border-bottom: solid 0.05em black;  text-align: center; }
     </style>
     <div class="container">
-      <table class="table table-borderless" id="tinytable_pvg0coxgn1ssjcxyqwce" style="width: auto; margin-left: auto; margin-right: auto;" data-quarto-disable-processing="true">
+      <table class="table table-borderless" id="tinytable_7u4pl26ayz7alozxhzjt" style="width: auto; margin-left: auto; margin-right: auto;" data-quarto-disable-processing="true">
         <thead>
         
               <tr>
